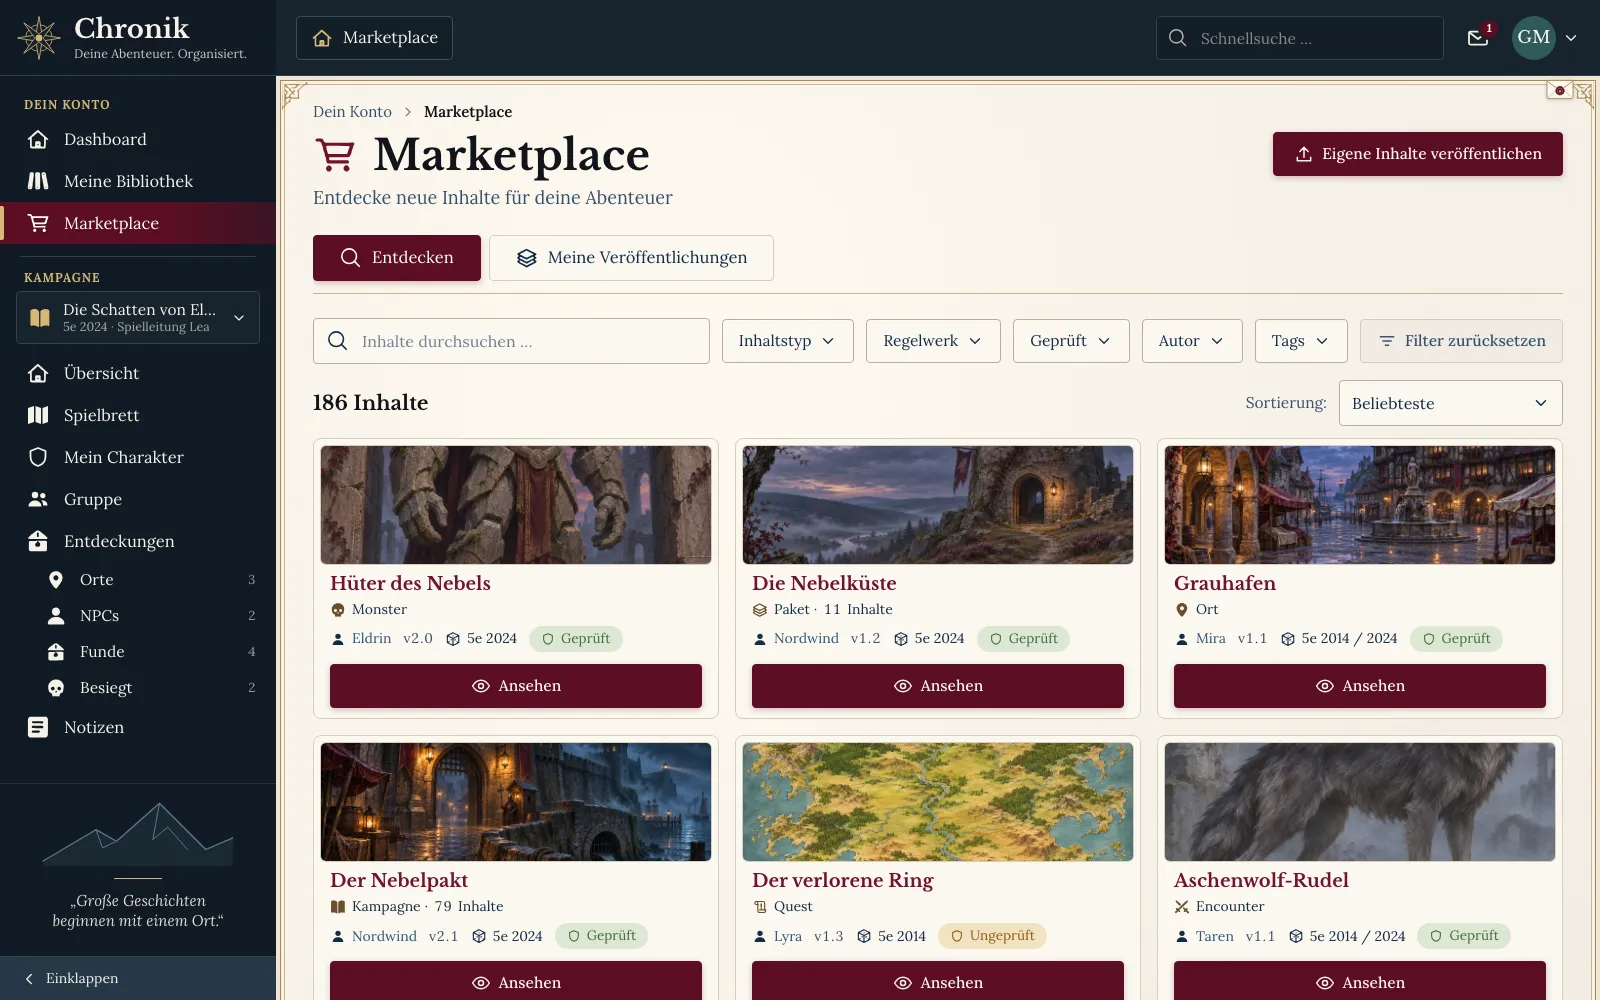
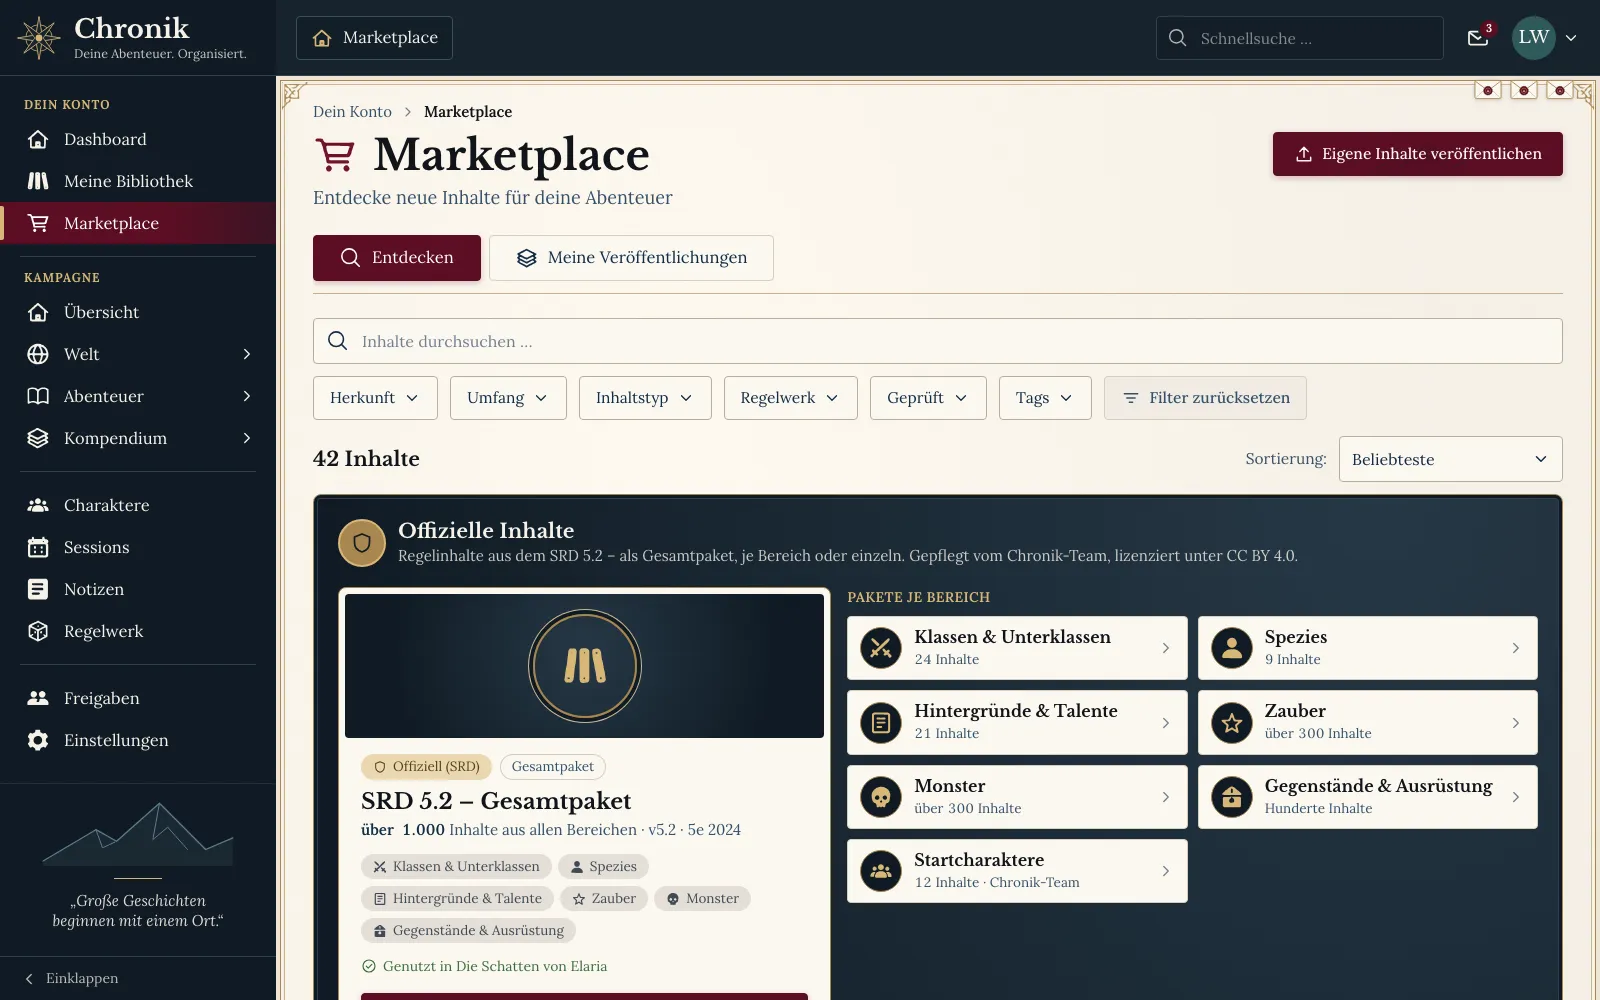
feat(frontend): marketplace as a fan of cards on the start page
The marketplace feature showed one screenshot in a split screen. It is now a fan of
three cards: official content in front, the complete bundle on the left and community
content on the right. Pointing at a card lifts and enlarges it and brings it to the
front (only with a mouse, so nothing stays lifted on touch). A click on the fan or the
button below it spreads the cards out at full width, one below the other, which makes
them readable on phones; another click folds them again. Only the front card shows its
label while folded. Without motion the cards jump to their place.

New screens of the bundle and the community area, the marketplace screen retaken.

diff --git a/apps/frontend/src/modules/landing/components/MarketplaceFan.vue b/apps/frontend/src/modules/landing/components/MarketplaceFan.vue
@@ -1,0 +1,224 @@
+<script setup lang="ts">
+/**
+ * Three screens of the marketplace as a fan of cards: the official content in front, the
+ * complete SRD bundle and the community content to its sides. Pointing at a card lifts it, makes
+ * it bigger and brings it to the front, with its label. A click (or tap) on the fan, or its button, spreads the
+ * cards out below each other at full width, so each can be read, on phones too; another click
+ * gathers them again. With reduced motion the cards change place without moving.
+ */
+import { computed, ref } from "vue";
+
+import Icon from "@/components/base/Icon.vue";
+import { useAppI18n } from "@/core/i18n";
+import type { MessageKey } from "@/core/i18n/keys";
+
+import { type Screen, SCREEN_HEIGHT, SCREEN_WIDTH, SCREENS } from "../screens";
+
+const { t } = useAppI18n();
+const spread = ref(false);
+
+/** In reading order (spread out); `slot` is the place in the fan. */
+const cards: Array<{ id: string; screen: Screen; label: MessageKey; slot: "left" | "center" | "right" }> = [
+  { id: "official", screen: SCREENS.marketplace, label: "landing.marketplace.fan.official", slot: "center" },
+  { id: "bundle", screen: SCREENS.marketplaceBundle, label: "landing.marketplace.fan.bundle", slot: "left" },
+  { id: "community", screen: SCREENS.marketplaceCommunity, label: "landing.marketplace.fan.community", slot: "right" },
+];
+
+const hint = computed(() => t(spread.value ? "landing.marketplace.fan.gather" : "landing.marketplace.fan.spread"));
+
+function toggle() {
+  spread.value = !spread.value;
+}
+</script>
+
+<template>
+  <div
+    class="fan-stage"
+    :class="{ spread }"
+  >
+    <!-- The fan itself takes clicks too; the button below is the way for the keyboard. -->
+    <div
+      class="fan"
+      role="group"
+      :aria-label="t('landing.marketplace.fan.label')"
+      @click="toggle"
+    >
+      <div
+        v-for="(card, index) in cards"
+        :key="card.id"
+        class="card"
+        :class="`slot-${card.slot}`"
+        :style="{ '--index': index }"
+      >
+        <img
+          :src="card.screen.src"
+          :alt="t(card.screen.alt)"
+          :width="SCREEN_WIDTH"
+          :height="SCREEN_HEIGHT"
+          loading="lazy"
+          class="shot"
+        >
+        <span class="label eyebrow">{{ t(card.label) }}</span>
+      </div>
+    </div>
+    <div class="hint-row">
+      <button
+        type="button"
+        class="hint"
+        :aria-expanded="spread"
+        @click="toggle"
+      >
+        <Icon
+          :name="spread ? 'aktion-einklappen' : 'aktion-ausklappen'"
+          :size="16"
+        />
+        {{ hint }}
+      </button>
+    </div>
+  </div>
+</template>
+
+<style scoped>
+/*
+ * Every card is laid out at the full width of the stage (16:10) and placed by transform alone,
+ * around its bottom middle: scaled down, shifted and turned in the fan, at full size below each
+ * other when spread out. The stage's height follows (container units, so it scales with it).
+ */
+.fan-stage {
+  --gap: 20px;
+  container-type: inline-size;
+}
+.fan {
+  position: relative;
+  height: 48cqw;
+  cursor: pointer;
+  transition: height 0.6s ease;
+}
+.spread .fan {
+  height: calc(3 * 62.5cqw + 2 * var(--gap));
+}
+
+.card {
+  --x: 0cqw;
+  --y: 0cqw;
+  --turn: 0deg;
+  --scale: 0.62;
+  --lift: 0cqw;
+  --grow: 0;
+  position: absolute;
+  top: 0;
+  left: 0;
+  width: 100cqw;
+  aspect-ratio: 16 / 10;
+  overflow: hidden;
+  border: 1px solid var(--color-gold);
+  border-radius: var(--radius-card);
+  background: var(--color-navy-950);
+  box-shadow: 0 18px 40px -12px color-mix(in srgb, var(--color-navy-950) 85%, transparent);
+  transform: translate(var(--x), calc(var(--y) - var(--lift))) rotate(var(--turn)) scale(calc(var(--scale) + var(--grow)));
+  transform-origin: 50% 100%;
+  transition:
+    transform 0.5s cubic-bezier(0.3, 0.7, 0.4, 1),
+    box-shadow 0.5s ease;
+}
+/* The fan: the official content in front, a little higher, the others turned to its sides. */
+.slot-center {
+  --y: -21cqw;
+  z-index: 3;
+}
+.slot-left {
+  --x: -17cqw;
+  --y: -19cqw;
+  --turn: -9deg;
+  z-index: 2;
+}
+.slot-right {
+  --x: 17cqw;
+  --y: -19cqw;
+  --turn: 9deg;
+  z-index: 1;
+}
+/* Pointing at a card lifts it, makes it bigger and brings it to the front. */
+@media (hover: hover) {
+  .fan-stage:not(.spread) .card:hover {
+    --lift: 5cqw;
+    --grow: 0.08;
+    z-index: 4;
+    box-shadow: 0 28px 60px -14px color-mix(in srgb, var(--color-navy-950) 95%, transparent);
+  }
+}
+
+/* Spread out: full size, upright, below each other in reading order. */
+.spread .card {
+  --x: 0cqw;
+  --y: calc(var(--index) * (62.5cqw + var(--gap)));
+  --turn: 0deg;
+  --scale: 1;
+  transition-delay: calc(var(--index) * 60ms);
+}
+
+.shot {
+  display: block;
+  width: 100%;
+  height: 100%;
+  object-fit: cover;
+}
+.label {
+  position: absolute;
+  bottom: 2.4cqw;
+  left: 2.4cqw;
+  padding: 0.35em 0.8em;
+  border: 1px solid var(--color-gold);
+  border-radius: 999px;
+  background: var(--color-navy-950);
+  color: var(--color-gold-light);
+  font-size: clamp(12px, 2.4cqw, 18px);
+}
+/*
+ * In the fan the cards are scaled down, so the label is set larger to stay readable. Only the
+ * card in front shows it; the others, mostly covered, show theirs once pointed at (or spread out).
+ */
+.fan-stage:not(.spread) .label {
+  bottom: 3.6cqw;
+  left: 3.6cqw;
+  font-size: clamp(17px, 3cqw, 22px);
+}
+.label {
+  transition: opacity 0.3s ease;
+}
+.fan-stage:not(.spread) .card:not(.slot-center):not(:hover) .label {
+  opacity: 0;
+}
+
+.hint-row {
+  display: flex;
+  justify-content: center;
+  margin-top: 12px;
+}
+.hint {
+  display: inline-flex;
+  min-height: 44px;
+  align-items: center;
+  gap: 8px;
+  padding: 0 16px;
+  border: 1px solid var(--color-gold);
+  border-radius: 999px;
+  color: var(--color-gold-light);
+  font-size: 15px;
+  transition: background-color 0.2s ease;
+}
+.hint:hover {
+  background: var(--color-navy-900);
+}
+.hint:focus-visible {
+  outline: 2px solid var(--color-gold-light);
+  outline-offset: 2px;
+}
+
+@media (prefers-reduced-motion: reduce) {
+  .fan,
+  .card {
+    transition: none;
+  }
+}
+</style>

diff --git a/apps/frontend/tests/unit/modules/landing/landingView.test.ts b/apps/frontend/tests/unit/modules/landing/landingView.test.ts
@@ -210,6 +210,27 @@ describe("landing page", () => {
     wrapper.unmount();
   });
 
+  it("shows the marketplace as a fan of three cards that spreads out on a click", async () => {
+    const { wrapper } = await open();
+    const section = wrapper.find("section[aria-labelledby=landing-marketplace]");
+    const fan = section.find("[role=group]");
+    expect(fan.attributes("aria-label")).toBe("Ansichten des Marktplatzes");
+    expect(fan.findAll(".label").map((label) => label.text())).toEqual([
+      "Offizielle Inhalte",
+      "Gesamtpaket",
+      "Community-Inhalte",
+    ]);
+    const button = section.find("button[aria-expanded]");
+    expect(button.attributes("aria-expanded")).toBe("false");
+    expect(button.text()).toBe("Antippen zum Auffächern");
+    await fan.trigger("click");
+    expect(button.attributes("aria-expanded")).toBe("true");
+    expect(button.text()).toBe("Antippen zum Zusammenlegen");
+    await button.trigger("click");
+    expect(button.attributes("aria-expanded")).toBe("false");
+    wrapper.unmount();
+  });
+
   it("links the logo to the start page in the active language", async () => {
     const german = await open();
     expect(german.wrapper.find("header a").attributes("href")).toBe("/");
@@ -282,14 +303,21 @@ describe("landing page", () => {
     vi.stubEnv("VITE_DEMO_URL", "");
     const { wrapper } = await open();
     const alts = wrapper.findAll("img[alt]").map((image) => image.attributes("alt")).filter(Boolean);
-    expect(alts).toHaveLength(9);
+    expect(alts).toHaveLength(11);
     expect(alts.slice(0, 2)).toEqual([
       expect.stringContaining("Charakterbogen von Arvel Merad"),
       expect.stringContaining("Akt-Board der Storyline"),
     ]);
-    expect(alts).toEqual(expect.arrayContaining([expect.stringContaining("Weltkarte von Elaria"), expect.stringContaining("Marktplatz")]));
+    expect(alts).toEqual(
+      expect.arrayContaining([
+        expect.stringContaining("Weltkarte von Elaria"),
+        expect.stringContaining("Marktplatz"),
+        expect.stringContaining("SRD 5.2 – Gesamtpaket"),
+        expect.stringContaining("Kampagnen & Community"),
+      ]),
+    );
     // Below the hero the pictures load only when needed.
-    expect(wrapper.findAll("img[loading=lazy]")).toHaveLength(7);
+    expect(wrapper.findAll("img[loading=lazy]")).toHaveLength(9);
     // Without a demo the pictures lead nowhere.
     expect(hrefs(wrapper).filter((href) => href?.includes("#/"))).toEqual([]);
     wrapper.unmount();

diff --git a/apps/frontend/src/modules/landing/views/LandingView.vue b/apps/frontend/src/modules/landing/views/LandingView.vue
@@ -22,6 +22,7 @@ import { usePageMeta } from "@/core/i18n/pageMeta";
 import CharacterSheetShowcase from "../components/CharacterSheetShowcase.vue";
 import FeatureRow, { type FeatureRowData } from "../components/FeatureRow.vue";
 import InventoryShowcase from "../components/InventoryShowcase.vue";
+import MarketplaceFan from "../components/MarketplaceFan.vue";
 import LanguageSwitch from "../components/LanguageSwitch.vue";
 import MoreSlider, { type MoreItem } from "../components/MoreSlider.vue";
 import ScreenFrame from "../components/ScreenFrame.vue";
@@ -33,6 +34,7 @@ import { type Screen, SCREENS } from "../screens";
 const { t } = useAppI18n();
 const demo = demoUrl();
 const marketplaceDemo = demoScreenUrl(SCREENS.marketplace.demoPath);
+
 const base = import.meta.env.BASE_URL;
 
 usePageMeta({ title: () => t("landing.meta.title"), description: () => t("landing.meta.description") });
@@ -437,7 +439,7 @@ const reputationPoints: MessageKey[] = [
         </div>
       </section>
 
-      <!-- Marketplace: the screen tilted in space, straightening up when pointed at -->
+      <!-- Marketplace: official content, the complete bundle and community content as a fan of cards -->
       <section
         class="relative overflow-hidden"
         aria-labelledby="landing-marketplace"
@@ -472,12 +474,7 @@ const reputationPoints: MessageKey[] = [
               {{ t("landing.marketplace.demo") }}
             </BaseButton>
           </div>
-          <div class="tilt-stage">
-            <ScreenFrame
-              :screen="SCREENS.marketplace"
-              class="tilt"
-            />
-          </div>
+          <MarketplaceFan />
         </div>
       </section>
 
@@ -571,26 +568,5 @@ const reputationPoints: MessageKey[] = [
 
 .marketplace-glow {
   background: radial-gradient(ellipse at 70% 50%, color-mix(in srgb, var(--color-gold) 22%, transparent), transparent 60%);
-}
-
-.tilt-stage {
-  perspective: 1800px;
-}
-.tilt {
-  transform: rotateY(-14deg) rotateX(6deg) rotateZ(1deg);
-  transform-origin: 40% 50%;
-  box-shadow: 30px 40px 60px -20px color-mix(in srgb, var(--color-navy-950) 90%, transparent);
-  transition: transform 0.6s ease;
-}
-.tilt-stage:hover .tilt,
-.tilt:focus-within,
-.tilt:focus-visible {
-  transform: none;
-}
-
-@media (prefers-reduced-motion: reduce) {
-  .tilt {
-    transition: none;
-  }
 }
 </style>

diff --git a/apps/frontend/src/modules/landing/screens.ts b/apps/frontend/src/modules/landing/screens.ts
@@ -3,6 +3,8 @@ import type { MessageKey } from "@/core/i18n/keys";
 import character from "./assets/screens/character.webp";
 import map from "./assets/screens/map.webp";
 import marketplace from "./assets/screens/marketplace.webp";
+import marketplaceBundle from "./assets/screens/marketplace-bundle.webp";
+import marketplaceCommunity from "./assets/screens/marketplace-community.webp";
 import quest from "./assets/screens/quest.webp";
 import reputation from "./assets/screens/reputation.webp";
 import sessions from "./assets/screens/sessions.webp";
@@ -26,4 +28,6 @@ export const SCREENS = {
   reputation: { src: reputation, alt: "landing.screens.reputation", demoPath: "/kampagne/welt/ruf" },
   sessions: { src: sessions, alt: "landing.screens.sessions", demoPath: "/kampagne/sessions" },
   marketplace: { src: marketplace, alt: "landing.screens.marketplace", demoPath: "/marketplace" },
+  marketplaceBundle: { src: marketplaceBundle, alt: "landing.screens.marketplaceBundle", demoPath: "/marketplace" },
+  marketplaceCommunity: { src: marketplaceCommunity, alt: "landing.screens.marketplaceCommunity", demoPath: "/marketplace" },
 } satisfies Record<string, Screen>;
